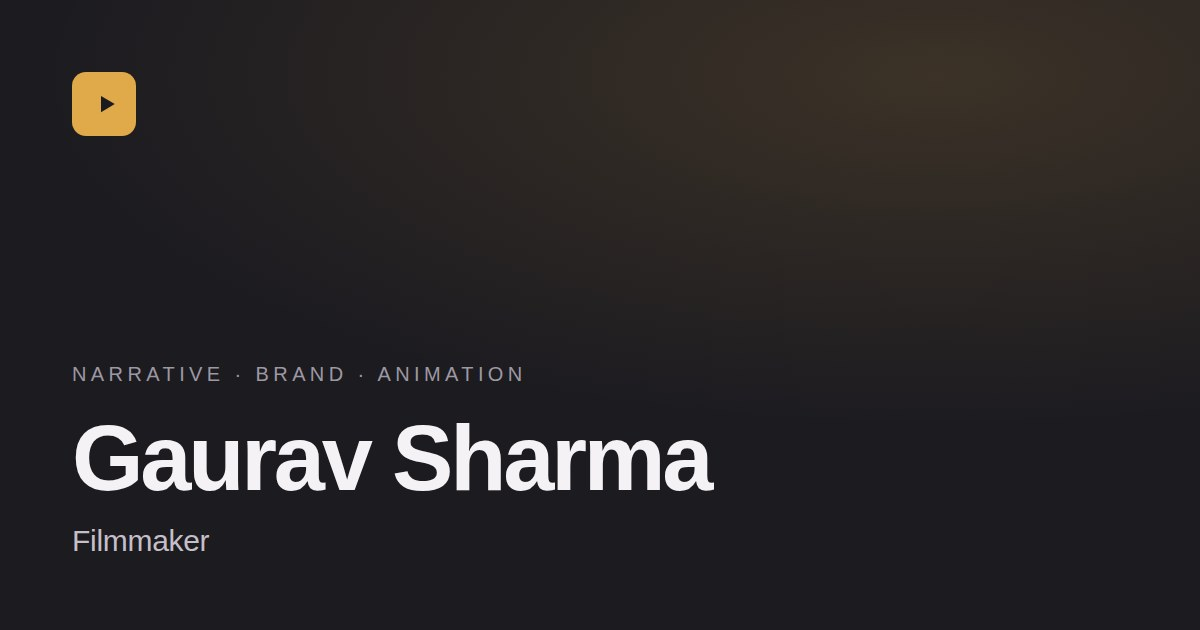
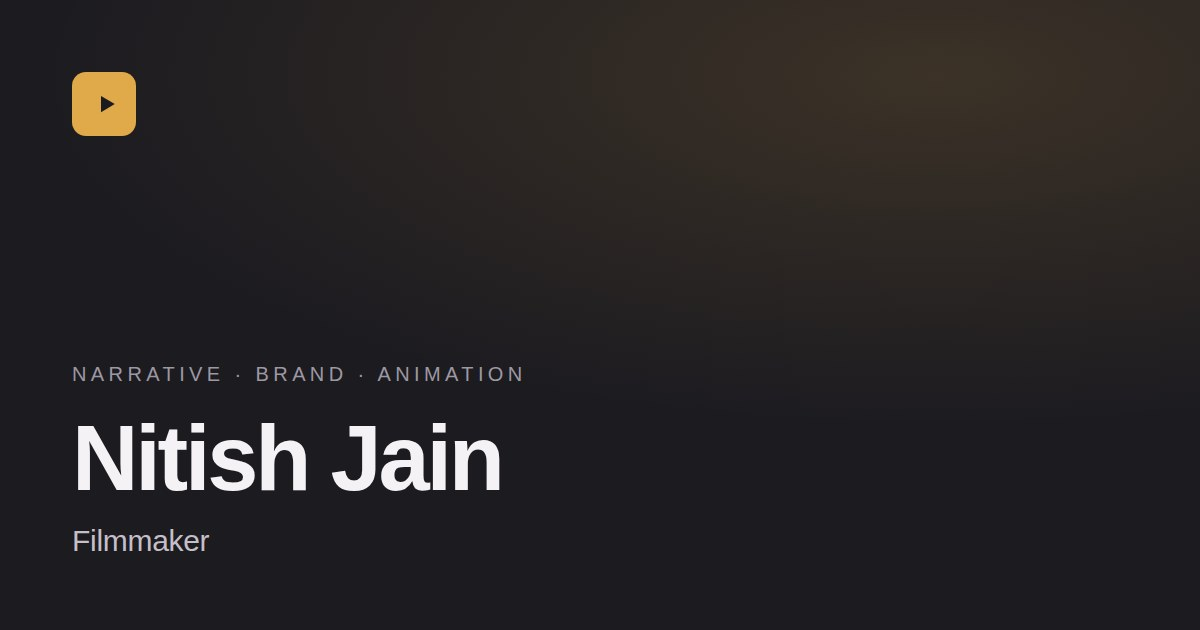
Fix social cards showing the old name and never using a film still
The Vercel card showed "Gaurav Sharma" because assets/og/default.jpg was
rendered before the rename — a baked image, so the find-and-replace across
source files could not reach it. Regenerated with the correct name and read back
to confirm, since the whole bug was an image whose contents nobody checked.

Underneath that sat the real fault: every page was falling back to that card in
the first place. The templates read `poster?.src` for ogImagePath, but films rely
on filename auto-detection, which populated `resolvedPoster` and left `poster`
null — so ogImagePath was always null and resolveOg() fell through on every page.
Only About escaped it, because identity.portrait.src is set explicitly in JSON.

The auto-detected poster is now written back to `f.poster` (and `c.poster`),
which fixes all four ogImagePath sites without touching a template. It has to be
the raw repo-relative path: resolveOg() does its own assetExists() and url(), so
a BASE-prefixed resolvedPoster.src would have failed the existence check and
silently fallen back again.

Sharing any link now shows a real frame:

  index, work, work-documentary  the architect still
  work-animation                 the beaver still
  process, hire                  the fallback card (no clips yet)
  about                          the Times Square portrait

Also clears the last stale name in the repo, a comment header in style.css.

Verified: probe build passes, 13/13 tests, browser pass at 375px and 1440px, and
[…]

Changed region(s): [[0.0617, 0.6635, 0.6167, 0.7841]]

diff --git a/work.html b/work.html
@@ -14,14 +14,14 @@
 <meta property="og:url" content="https://argaurshar.github.io/aifilmmaking-portfolio/work.html">
 <meta property="og:site_name" content="Nitish Jain — Filmmaker">
 <meta property="og:locale" content="en">
-<meta property="og:image" content="https://argaurshar.github.io/aifilmmaking-portfolio/assets/og/default.jpg">
-<meta property="og:image:width" content="1200">
-<meta property="og:image:height" content="630">
-<meta property="og:image:alt" content="Nitish Jain — Filmmaker">
+<meta property="og:image" content="https://argaurshar.github.io/aifilmmaking-portfolio/assets/stills/the-architect-who-built-for-the-soul-1920.jpg">
+<meta property="og:image:width" content="1920">
+<meta property="og:image:height" content="1080">
+<meta property="og:image:alt" content="Work — Nitish Jain">
 
 <meta name="twitter:card" content="summary_large_image">
 <link rel="icon" href="/aifilmmaking-portfolio/assets/favicon.svg" type="image/svg+xml">
-<link rel="stylesheet" href="/aifilmmaking-portfolio/assets/css/style.css?v=21651a3e93">
+<link rel="stylesheet" href="/aifilmmaking-portfolio/assets/css/style.css?v=387d29f725">
 <script type="application/ld+json">{"@context":"https://schema.org","@graph":[{"@type":"Person","@id":"https://argaurshar.github.io/aifilmmaking-portfolio/about.html#person","name":"Nitish Jain","url":"https://argaurshar.github.io/aifilmmaking-portfolio/","jobTitle":"Filmmaker","knowsAbout":["Directing","Editing","Narrative short film","Brand film","Animation"],"description":"I make short films — animation and documentary, most of them one to two minutes, and most of them about India.","image":"https://argaurshar.github.io/aifilmmaking-portfolio/assets/stills/portrait.jpg"},{"@type":"ItemList","itemListElement":[{"@type":"ListItem","position":1,"url":"https://argaurshar.github.io/aifilmmaking-portfolio/work.html#film-the-architect-who-built-for-the-soul"},{"@type":"ListItem","position":2,"url":"https://argaurshar.github.io/aifilmmaking-portfolio/work.html#film-the-beaver-who-had-no-crown"},{"@type":"ListItem","position":3,"url":"https://argaurshar.github.io/aifilmmaking-portfolio/work.html#film-trapped-alone-in-space"},{"@type":"ListItem","position":4,"url":"https://argaurshar.github.io/aifilmmaking-portfolio/work.html#film-a-boy-drew-his-dream-on-a-ball"},{"@type":"ListItem","position":5,"url":"https://argaurshar.github.io/aifilmmaking-portfolio/work.html#film-the-strike"},{"@type":"ListItem","position":6,"url":"https://argaurshar.github.io/aifilmmaking-portfolio/work.html#film-the-rakhi-that-never-breaks"},{"@type":"ListItem","position":7,"url":"https://argaurshar.github.io/aifilmmaking-portfolio/work.html#film-he-tried-to-escape-his-fear"},{"@type":"ListItem","position":8,"url":"https://argaurshar.github.io/aifilmmaking-portfolio/work.html#film-sonam-wangchuk"},{"@type":"ListItem","position":9,"url":"https://argaurshar.github.io/aifilmmaking-portfolio/work.html#film-the-lunchbox-that-kept-coming-back"}]},{"@type":"VideoObject","@id":"https://argaurshar.github.io/aifilmmaking-portfolio/work.html#film-the-architect-who-built-for-the-soul","name":"The Architect Who Built for the Soul","description":"A tribute to a master of humane Indian modernism — the architect who believed a house is not shelter but a precious thing.","embedUrl":"https://www.youtube-nocookie.com/embed/BJRrA7PYngY","url":"https://argaurshar.github.io/aifilmmaking-portfolio/work.html#film-the-architect-who-built-for-the-soul","genre":"Documentary","inLanguage":"en","creator":{"@id":"https://argaurshar.github.io/aifilmmaking-portfolio/about.html#person"},"director":{"@id":"https://argaurshar.github.io/aifilmmaking-portfolio/about.html#person"},"thumbnailUrl":["https://argaurshar.github.io/aifilmmaking-portfolio/assets/stills/the-architect-who-built-for-the-soul-1920.jpg"],"uploadDate":"2026-07-25","duration":"PT1M31S"},{"@type":"VideoObject","@id":"https://argaurshar.github.io/aifilmmaking-portfolio/work.html#film-the-beaver-who-had-no-crown","name":"The Beaver Who Had No Crown","description":"Pip is the only beaver in the colony without a crown, and too afraid to jump off the great dam to earn one.","embedUrl":"https://www.youtube-nocookie.com/embed/XWB5ANfiVwM","url":"https://argaurshar.github.io/aifilmmaking-portfolio/work.html#film-the-beaver-who-had-no-crown","genre":"Animation","inLanguage":"en","creator":{"@id":"https://argaurshar.github.io/aifilmmaking-portfolio/about.html#person"},"director":{"@id":"https://argaurshar.github.io/aifilmmaking-portfolio/about.html#person"},"thumbnailUrl":["https://argaurshar.github.io/aifilmmaking-portfolio/assets/stills/the-beaver-who-had-no-crown-1920.jpg"],"uploadDate":"2026-07-25","duration":"PT1M7S"},{"@type":"VideoObject","@id":"https://argaurshar.github.io/aifilmmaking-portfolio/work.html#film-trapped-alone-in-space","name":"Trapped Alone in Space","description":"A scientist, a dying ship, no way home. When contact with Earth goes silent, he has to decide what is worth surviving for.","embedUrl":"https://www.youtube-nocookie.com/embed/D0uKP6KAnOM","url":"https://argaurshar.github.io/aifilmmaking-portfolio/work.html#film-trapped-alone-in-space","genre":"Trailer","inLanguage":"en","creator":{"@id":"https://argaurshar.github.io/aifilmmaking-portfolio/about.html#person"},"director":{"@id":"https://argaurshar.github.io/aifilmmaking-portfolio/about.html#person"},"thumbnailUrl":["https://argaurshar.github.io/aifilmmaking-portfolio/assets/stills/trapped-alone-in-space-1920.jpg"],"uploadDate":"2026-07-25","duration":"PT11S"},{"@type":"VideoObject","@id":"https://argaurshar.github.io/aifilmmaking-portfolio/work.html#film-a-boy-drew-his-dream-on-a-ball","name":"A Boy Drew His Dream on a Ball","description":"A boy in a small Indian backyard chalks the number 7 onto a rag ball and plays a World Cup final that only exists in his head.","embedUrl":"https://www.youtube-nocookie.com/embed/fVl2v0zZtC8","url":"https://argaurshar.github.io/aifilmmaking-portfolio/work.html#film-a-boy-drew-his-dream-on-a-ball","genre":"Animation","inLanguage":"en","creator":{"@id":"https://argaurshar.github.io/aifilmmaking-portfolio/about.html#person"},"director":{"@id":"https://argaurshar.github.io/aifilmmaking-portfolio/about.html#person"},"thumbnailUrl":["https://argaurshar.github.io/aifilmmaking-portfolio/assets/stills/a-boy-drew-his-dream-on-a-ball-1920.jpg"],"uploadDate":"2026-07-25","duration":"PT1M18S"},{"@type":"VideoObject","@id":"https://argaurshar.github.io/aifilmmaking-portfolio/work.html#film-the-strike","name":"The Strike","description":"Under a full moon, the Nighthawk unit crosses an unnamed frontier for a surgical-strike mission deep in enemy territory.","embedUrl":"https://www.youtube-nocookie.com/embed/PfIIjjRaVS0","url":"https://argaurshar.github.io/aifilmmaking-portfolio/work.html#film-the-strike","genre":"Animation","inLanguage":"en","creator":{"@id":"https://argaurshar.github.io/aifilmmaking-portfolio/about.html#person"},"director":{"@id":"https://argaurshar.github.io/aifilmmaking-portfolio/about.html#person"},"thumbnailUrl":["https://argaurshar.github.io/aifilmmaking-portfolio/assets/stills/the-strike-1920.jpg"],"uploadDate":"2026-07-25","duration":"PT1M47S"},{"@type":"VideoObject","@id":"https://argaurshar.github.io/aifilmmaking-portfolio/work.html#film-the-rakhi-that-never-breaks","name":"The Rakhi That Never Breaks","description":"Every year the thread fades. This Raksha Bandhan, one sister decides to give her brother something that will not.","embedUrl":"https://www.youtube-nocookie.com/embed/PiR-v9rSx60","url":"https://argaurshar.github.io/aifilmmaking-portfolio/work.html#film-the-rakhi-that-never-breaks","genre":"Animation","inLanguage":"en","creator":{"@id":"https://argaurshar.github.io/aifilmmaking-portfolio/about.html#person"},"director":{"@id":"https://argaurshar.github.io/aifilmmaking-portfolio/about.html#person"},"thumbnailUrl":["https://argaurshar.github.io/aifilmmaking-portfolio/assets/stills/the-rakhi-that-never-breaks-1920.jpg"],"uploadDate":"2026-07-25","duration":"PT1M19S"},{"@type":"VideoObject","@id":"https://argaurshar.github.io/aifilmmaking-portfolio/work.html#film-he-tried-to-escape-his-fear","name":"He Tried to Escape His Fear","description":"One man tries to outrun the thing he has been avoiding his whole life, and finds out what happens when hiding stops working.","embedUrl":"https://www.youtube-nocookie.com/embed/apCOQYEtCw0","url":"https://argaurshar.github.io/aifilmmaking-portfolio/work.html#film-he-tried-to-escape-his-fear","genre":"Animation","inLanguage":"en","creator":{"@id":"https://argaurshar.github.io/aifilmmaking-portfolio/about.html#person"},"director":{"@id":"https://argaurshar.github.io/aifilmmaking-portfolio/about.html#person"},"thumbnailUrl":["https://argaurshar.github.io/aifilmmaking-portfolio/assets/stills/he-tried-to-escape-his-fear-1920.jpg"],"uploadDate":"2026-07-25","duration":"PT1M1S"},{"@type":"VideoObject","@id":"https://argaurshar.github.io/aifilmmaking-portfolio/work.html#film-sonam-wangchuk","name":"Sonam Wangchuk: The Boy the System Failed","description":"He could not understand the language at school. His teachers called him slow. They were wrong.","embedUrl":"https://www.youtube-nocookie.com/embed/tRPycHnRt9k","url":"https://argaurshar.github.io/aifilmmaking-portfolio/work.html#film-sonam-wangchuk","genre":"Documentary","inLanguage":"en","creator":{"@id":"https://argaurshar.github.io/aifilmmaking-portfolio/about.html#person"},"director":{"@id":"https://argaurshar.github.io/aifilmmaking-portfolio/about.html#person"},"thumbnailUrl":["https://argaurshar.github.io/aifilmmaking-portfolio/assets/stills/sonam-wangchuk-1920.jpg"],"uploadDate":"2026-07-25","duration":"PT1M5S"},{"@type":"VideoObject","@id":"https://argaurshar.github.io/aifilmmaking-portfolio/work.html#film-the-lunchbox-that-kept-coming-back","name":"The Lunchbox That Kept Coming Back","description":"Ramesh has delivered the same red tiffin to the same desk every day for years. Then one day it comes back untouched.","embedUrl":"https://www.youtube-nocookie.com/embed/b2TWgdEnqtY","url":"https://argaurshar.github.io/aifilmmaking-portfolio/work.html#film-the-lunchbox-that-kept-coming-back","genre":"Animation","inLanguage":"en","creator":{"@id":"https://argaurshar.github.io/aifilmmaking-portfolio/about.html#person"},"director":{"@id":"https://argaurshar.github.io/aifilmmaking-portfolio/about.html#person"},"thumbnailUrl":["https://argaurshar.github.io/aifilmmaking-portfolio/assets/stills/the-lunchbox-that-kept-coming-back-1920.jpg"],"uploadDate":"2026-07-25","duration":"PT1M52S"},{"@type":"BreadcrumbList","itemListElement":[{"@type":"ListItem","position":1,"name":"Home","item":"https://argaurshar.github.io/aifilmmaking-portfolio/"},{"@type":"ListItem","position":2,"name":"Work","item":"https://argaurshar.github.io/aifilmmaking-portfolio/work.html"}]}]}</script>
 <script>document.documentElement.classList.replace('no-js','js')</script>
 </head>

diff --git a/work-animation.html b/work-animation.html
@@ -14,14 +14,14 @@
 <meta property="og:url" content="https://argaurshar.github.io/aifilmmaking-portfolio/work-animation.html">
 <meta property="og:site_name" content="Nitish Jain — Filmmaker">
 <meta property="og:locale" content="en">
-<meta property="og:image" content="https://argaurshar.github.io/aifilmmaking-portfolio/assets/og/default.jpg">
-<meta property="og:image:width" content="1200">
-<meta property="og:image:height" content="630">
-<meta property="og:image:alt" content="Nitish Jain — Filmmaker">
+<meta property="og:image" content="https://argaurshar.github.io/aifilmmaking-portfolio/assets/stills/the-beaver-who-had-no-crown-1920.jpg">
+<meta property="og:image:width" content="1920">
+<meta property="og:image:height" content="1080">
+<meta property="og:image:alt" content="Animation — Nitish Jain">
 
 <meta name="twitter:card" content="summary_large_image">
 <link rel="icon" href="/aifilmmaking-portfolio/assets/favicon.svg" type="image/svg+xml">
-<link rel="stylesheet" href="/aifilmmaking-portfolio/assets/css/style.css?v=21651a3e93">
+<link rel="stylesheet" href="/aifilmmaking-portfolio/assets/css/style.css?v=387d29f725">
 <script type="application/ld+json">{"@context":"https://schema.org","@graph":[{"@type":"Person","@id":"https://argaurshar.github.io/aifilmmaking-portfolio/about.html#person","name":"Nitish Jain","url":"https://argaurshar.github.io/aifilmmaking-portfolio/","jobTitle":"Filmmaker","knowsAbout":["Directing","Editing","Narrative short film","Brand film","Animation"],"description":"I make short films — animation and documentary, most of them one to two minutes, and most of them about India.","image":"https://argaurshar.github.io/aifilmmaking-portfolio/assets/stills/portrait.jpg"},{"@type":"VideoObject","@id":"https://argaurshar.github.io/aifilmmaking-portfolio/work.html#film-the-beaver-who-had-no-crown","name":"The Beaver Who Had No Crown","description":"Pip is the only beaver in the colony without a crown, and too afraid to jump off the great dam to earn one.","embedUrl":"https://www.youtube-nocookie.com/embed/XWB5ANfiVwM","url":"https://argaurshar.github.io/aifilmmaking-portfolio/work.html#film-the-beaver-who-had-no-crown","genre":"Animation","inLanguage":"en","creator":{"@id":"https://argaurshar.github.io/aifilmmaking-portfolio/about.html#person"},"director":{"@id":"https://argaurshar.github.io/aifilmmaking-portfolio/about.html#person"},"thumbnailUrl":["https://argaurshar.github.io/aifilmmaking-portfolio/assets/stills/the-beaver-who-had-no-crown-1920.jpg"],"uploadDate":"2026-07-25","duration":"PT1M7S"},{"@type":"VideoObject","@id":"https://argaurshar.github.io/aifilmmaking-portfolio/work.html#film-a-boy-drew-his-dream-on-a-ball","name":"A Boy Drew His Dream on a Ball","description":"A boy in a small Indian backyard chalks the number 7 onto a rag ball and plays a World Cup final that only exists in his head.","embedUrl":"https://www.youtube-nocookie.com/embed/fVl2v0zZtC8","url":"https://argaurshar.github.io/aifilmmaking-portfolio/work.html#film-a-boy-drew-his-dream-on-a-ball","genre":"Animation","inLanguage":"en","creator":{"@id":"https://argaurshar.github.io/aifilmmaking-portfolio/about.html#person"},"director":{"@id":"https://argaurshar.github.io/aifilmmaking-portfolio/about.html#person"},"thumbnailUrl":["https://argaurshar.github.io/aifilmmaking-portfolio/assets/stills/a-boy-drew-his-dream-on-a-ball-1920.jpg"],"uploadDate":"2026-07-25","duration":"PT1M18S"},{"@type":"VideoObject","@id":"https://argaurshar.github.io/aifilmmaking-portfolio/work.html#film-the-strike","name":"The Strike","description":"Under a full moon, the Nighthawk unit crosses an unnamed frontier for a surgical-strike mission deep in enemy territory.","embedUrl":"https://www.youtube-nocookie.com/embed/PfIIjjRaVS0","url":"https://argaurshar.github.io/aifilmmaking-portfolio/work.html#film-the-strike","genre":"Animation","inLanguage":"en","creator":{"@id":"https://argaurshar.github.io/aifilmmaking-portfolio/about.html#person"},"director":{"@id":"https://argaurshar.github.io/aifilmmaking-portfolio/about.html#person"},"thumbnailUrl":["https://argaurshar.github.io/aifilmmaking-portfolio/assets/stills/the-strike-1920.jpg"],"uploadDate":"2026-07-25","duration":"PT1M47S"},{"@type":"VideoObject","@id":"https://argaurshar.github.io/aifilmmaking-portfolio/work.html#film-the-rakhi-that-never-breaks","name":"The Rakhi That Never Breaks","description":"Every year the thread fades. This Raksha Bandhan, one sister decides to give her brother something that will not.","embedUrl":"https://www.youtube-nocookie.com/embed/PiR-v9rSx60","url":"https://argaurshar.github.io/aifilmmaking-portfolio/work.html#film-the-rakhi-that-never-breaks","genre":"Animation","inLanguage":"en","creator":{"@id":"https://argaurshar.github.io/aifilmmaking-portfolio/about.html#person"},"director":{"@id":"https://argaurshar.github.io/aifilmmaking-portfolio/about.html#person"},"thumbnailUrl":["https://argaurshar.github.io/aifilmmaking-portfolio/assets/stills/the-rakhi-that-never-breaks-1920.jpg"],"uploadDate":"2026-07-25","duration":"PT1M19S"},{"@type":"VideoObject","@id":"https://argaurshar.github.io/aifilmmaking-portfolio/work.html#film-he-tried-to-escape-his-fear","name":"He Tried to Escape His Fear","description":"One man tries to outrun the thing he has been avoiding his whole life, and finds out what happens when hiding stops working.","embedUrl":"https://www.youtube-nocookie.com/embed/apCOQYEtCw0","url":"https://argaurshar.github.io/aifilmmaking-portfolio/work.html#film-he-tried-to-escape-his-fear","genre":"Animation","inLanguage":"en","creator":{"@id":"https://argaurshar.github.io/aifilmmaking-portfolio/about.html#person"},"director":{"@id":"https://argaurshar.github.io/aifilmmaking-portfolio/about.html#person"},"thumbnailUrl":["https://argaurshar.github.io/aifilmmaking-portfolio/assets/stills/he-tried-to-escape-his-fear-1920.jpg"],"uploadDate":"2026-07-25","duration":"PT1M1S"},{"@type":"VideoObject","@id":"https://argaurshar.github.io/aifilmmaking-portfolio/work.html#film-the-lunchbox-that-kept-coming-back","name":"The Lunchbox That Kept Coming Back","description":"Ramesh has delivered the same red tiffin to the same desk every day for years. Then one day it comes back untouched.","embedUrl":"https://www.youtube-nocookie.com/embed/b2TWgdEnqtY","url":"https://argaurshar.github.io/aifilmmaking-portfolio/work.html#film-the-lunchbox-that-kept-coming-back","genre":"Animation","inLanguage":"en","creator":{"@id":"https://argaurshar.github.io/aifilmmaking-portfolio/about.html#person"},"director":{"@id":"https://argaurshar.github.io/aifilmmaking-portfolio/about.html#person"},"thumbnailUrl":["https://argaurshar.github.io/aifilmmaking-portfolio/assets/stills/the-lunchbox-that-kept-coming-back-1920.jpg"],"uploadDate":"2026-07-25","duration":"PT1M52S"}]}</script>
 <script>document.documentElement.classList.replace('no-js','js')</script>
 </head>

diff --git a/work-documentary.html b/work-documentary.html
@@ -14,14 +14,14 @@
 <meta property="og:url" content="https://argaurshar.github.io/aifilmmaking-portfolio/work-documentary.html">
 <meta property="og:site_name" content="Nitish Jain — Filmmaker">
 <meta property="og:locale" content="en">
-<meta property="og:image" content="https://argaurshar.github.io/aifilmmaking-portfolio/assets/og/default.jpg">
-<meta property="og:image:width" content="1200">
-<meta property="og:image:height" content="630">
-<meta property="og:image:alt" content="Nitish Jain — Filmmaker">
+<meta property="og:image" content="https://argaurshar.github.io/aifilmmaking-portfolio/assets/stills/the-architect-who-built-for-the-soul-1920.jpg">
+<meta property="og:image:width" content="1920">
+<meta property="og:image:height" content="1080">
+<meta property="og:image:alt" content="Documentary — Nitish Jain">
 
 <meta name="twitter:card" content="summary_large_image">
 <link rel="icon" href="/aifilmmaking-portfolio/assets/favicon.svg" type="image/svg+xml">
-<link rel="stylesheet" href="/aifilmmaking-portfolio/assets/css/style.css?v=21651a3e93">
+<link rel="stylesheet" href="/aifilmmaking-portfolio/assets/css/style.css?v=387d29f725">
 <script type="application/ld+json">{"@context":"https://schema.org","@graph":[{"@type":"Person","@id":"https://argaurshar.github.io/aifilmmaking-portfolio/about.html#person","name":"Nitish Jain","url":"https://argaurshar.github.io/aifilmmaking-portfolio/","jobTitle":"Filmmaker","knowsAbout":["Directing","Editing","Narrative short film","Brand film","Animation"],"description":"I make short films — animation and documentary, most of them one to two minutes, and most of them about India.","image":"https://argaurshar.github.io/aifilmmaking-portfolio/assets/stills/portrait.jpg"},{"@type":"VideoObject","@id":"https://argaurshar.github.io/aifilmmaking-portfolio/work.html#film-the-architect-who-built-for-the-soul","name":"The Architect Who Built for the Soul","description":"A tribute to a master of humane Indian modernism — the architect who believed a house is not shelter but a precious thing.","embedUrl":"https://www.youtube-nocookie.com/embed/BJRrA7PYngY","url":"https://argaurshar.github.io/aifilmmaking-portfolio/work.html#film-the-architect-who-built-for-the-soul","genre":"Documentary","inLanguage":"en","creator":{"@id":"https://argaurshar.github.io/aifilmmaking-portfolio/about.html#person"},"director":{"@id":"https://argaurshar.github.io/aifilmmaking-portfolio/about.html#person"},"thumbnailUrl":["https://argaurshar.github.io/aifilmmaking-portfolio/assets/stills/the-architect-who-built-for-the-soul-1920.jpg"],"uploadDate":"2026-07-25","duration":"PT1M31S"},{"@type":"VideoObject","@id":"https://argaurshar.github.io/aifilmmaking-portfolio/work.html#film-sonam-wangchuk","name":"Sonam Wangchuk: The Boy the System Failed","description":"He could not understand the language at school. His teachers called him slow. They were wrong.","embedUrl":"https://www.youtube-nocookie.com/embed/tRPycHnRt9k","url":"https://argaurshar.github.io/aifilmmaking-portfolio/work.html#film-sonam-wangchuk","genre":"Documentary","inLanguage":"en","creator":{"@id":"https://argaurshar.github.io/aifilmmaking-portfolio/about.html#person"},"director":{"@id":"https://argaurshar.github.io/aifilmmaking-portfolio/about.html#person"},"thumbnailUrl":["https://argaurshar.github.io/aifilmmaking-portfolio/assets/stills/sonam-wangchuk-1920.jpg"],"uploadDate":"2026-07-25","duration":"PT1M5S"}]}</script>
 <script>document.documentElement.classList.replace('no-js','js')</script>
 </head>

diff --git a/index.html b/index.html
@@ -14,9 +14,9 @@
 <meta property="og:url" content="https://argaurshar.github.io/aifilmmaking-portfolio/">
 <meta property="og:site_name" content="Nitish Jain — Filmmaker">
 <meta property="og:locale" content="en">
-<meta property="og:image" content="https://argaurshar.github.io/aifilmmaking-portfolio/assets/og/default.jpg">
-<meta property="og:image:width" content="1200">
-<meta property="og:image:height" content="630">
+<meta property="og:image" content="https://argaurshar.github.io/aifilmmaking-portfolio/assets/stills/the-architect-who-built-for-the-soul-1920.jpg">
+<meta property="og:image:width" content="1920">
+<meta property="og:image:height" content="1080">
 <meta property="og:image:alt" content="Nitish Jain — Filmmaker">
 <meta property="og:video:url" content="https://www.youtube-nocookie.com/embed/BJRrA7PYngY?autoplay=1&amp;rel=0&amp;playsinline=1&amp;color=white">
 <meta property="og:video:secure_url" content="https://www.youtube-nocookie.com/embed/BJRrA7PYngY?autoplay=1&amp;rel=0&amp;playsinline=1&amp;color=white">
@@ -25,7 +25,7 @@
 <meta property="og:video:height" content="720">
 <meta name="twitter:card" content="summary_large_image">
 <link rel="icon" href="/aifilmmaking-portfolio/assets/favicon.svg" type="image/svg+xml">
-<link rel="stylesheet" href="/aifilmmaking-portfolio/assets/css/style.css?v=21651a3e93">
+<link rel="stylesheet" href="/aifilmmaking-portfolio/assets/css/style.css?v=387d29f725">
 <script type="application/ld+json">{"@context":"https://schema.org","@graph":[{"@type":"WebSite","@id":"https://argaurshar.github.io/aifilmmaking-portfolio/#website","url":"https://argaurshar.github.io/aifilmmaking-portfolio/","name":"Nitish Jain — Filmmaker","publisher":{"@id":"https://argaurshar.github.io/aifilmmaking-portfolio/about.html#person"}},{"@type":"Person","@id":"https://argaurshar.github.io/aifilmmaking-portfolio/about.html#person","name":"Nitish Jain","url":"https://argaurshar.github.io/aifilmmaking-portfolio/","jobTitle":"Filmmaker","knowsAbout":["Directing","Editing","Narrative short film","Brand film","Animation"],"description":"I make short films — animation and documentary, most of them one to two minutes, and most of them about India.","image":"https://argaurshar.github.io/aifilmmaking-portfolio/assets/stills/portrait.jpg"},{"@type":"VideoObject","@id":"https://argaurshar.github.io/aifilmmaking-portfolio/work.html#film-the-architect-who-built-for-the-soul","name":"The Architect Who Built for the Soul","description":"A tribute to a master of humane Indian modernism — the architect who believed a house is not shelter but a precious thing.","embedUrl":"https://www.youtube-nocookie.com/embed/BJRrA7PYngY","url":"https://argaurshar.github.io/aifilmmaking-portfolio/work.html#film-the-architect-who-built-for-the-soul","genre":"Documentary","inLanguage":"en","creator":{"@id":"https://argaurshar.github.io/aifilmmaking-portfolio/about.html#person"},"director":{"@id":"https://argaurshar.github.io/aifilmmaking-portfolio/about.html#person"},"thumbnailUrl":["https://argaurshar.github.io/aifilmmaking-portfolio/assets/stills/the-architect-who-built-for-the-soul-1920.jpg"],"uploadDate":"2026-07-25","duration":"PT1M31S"}]}</script>
 <script>document.documentElement.classList.replace('no-js','js')</script>
 </head>

diff --git a/hire.html b/hire.html
@@ -21,7 +21,7 @@
 
 <meta name="twitter:card" content="summary_large_image">
 <link rel="icon" href="/aifilmmaking-portfolio/assets/favicon.svg" type="image/svg+xml">
-<link rel="stylesheet" href="/aifilmmaking-portfolio/assets/css/style.css?v=21651a3e93">
+<link rel="stylesheet" href="/aifilmmaking-portfolio/assets/css/style.css?v=387d29f725">
 <script type="application/ld+json">{"@context":"https://schema.org","@graph":[{"@type":"Person","@id":"https://argaurshar.github.io/aifilmmaking-portfolio/about.html#person","name":"Nitish Jain","url":"https://argaurshar.github.io/aifilmmaking-portfolio/","jobTitle":"Filmmaker","knowsAbout":["Directing","Editing","Narrative short film","Brand film","Animation"],"description":"I make short films — animation and documentary, most of them one to two minutes, and most of them about India.","image":"https://argaurshar.github.io/aifilmmaking-portfolio/assets/stills/portrait.jpg","makesOffer":[{"@type":"Offer","itemOffered":{"@type":"Service","name":"Narrative short","description":"A story with a beginning and an end, usually one to five minutes."}},{"@type":"Offer","itemOffered":{"@type":"Service","name":"Brand film","description":"A film for a product or a company that is watchable on its own."}},{"@type":"Offer","itemOffered":{"@type":"Service","name":"Animation","description":"Moving image work that is not shot — sequences, titles, transitions, whole pieces."}}]},{"@type":"BreadcrumbList","itemListElement":[{"@type":"ListItem","position":1,"name":"Home","item":"https://argaurshar.github.io/aifilmmaking-portfolio/"},{"@type":"ListItem","position":2,"name":"Hire","item":"https://argaurshar.github.io/aifilmmaking-portfolio/hire.html"}]}]}</script>
 <script>document.documentElement.classList.replace('no-js','js')</script>
 </head>

diff --git a/process.html b/process.html
@@ -21,7 +21,7 @@
 
 <meta name="twitter:card" content="summary_large_image">
 <link rel="icon" href="/aifilmmaking-portfolio/assets/favicon.svg" type="image/svg+xml">
-<link rel="stylesheet" href="/aifilmmaking-portfolio/assets/css/style.css?v=21651a3e93">
+<link rel="stylesheet" href="/aifilmmaking-portfolio/assets/css/style.css?v=387d29f725">
 <script type="application/ld+json">{"@context":"https://schema.org","@graph":[{"@type":"Person","@id":"https://argaurshar.github.io/aifilmmaking-portfolio/about.html#person","name":"Nitish Jain","url":"https://argaurshar.github.io/aifilmmaking-portfolio/","jobTitle":"Filmmaker","knowsAbout":["Directing","Editing","Narrative short film","Brand film","Animation"],"description":"I make short films — animation and documentary, most of them one to two minutes, and most of them about India.","image":"https://argaurshar.github.io/aifilmmaking-portfolio/assets/stills/portrait.jpg"},{"@type":"BreadcrumbList","itemListElement":[{"@type":"ListItem","position":1,"name":"Home","item":"https://argaurshar.github.io/aifilmmaking-portfolio/"},{"@type":"ListItem","position":2,"name":"Process","item":"https://argaurshar.github.io/aifilmmaking-portfolio/process.html"}]}]}</script>
 <script>document.documentElement.classList.replace('no-js','js')</script>
 </head>

diff --git a/about.html b/about.html
@@ -21,7 +21,7 @@
 
 <meta name="twitter:card" content="summary_large_image">
 <link rel="icon" href="/aifilmmaking-portfolio/assets/favicon.svg" type="image/svg+xml">
-<link rel="stylesheet" href="/aifilmmaking-portfolio/assets/css/style.css?v=21651a3e93">
+<link rel="stylesheet" href="/aifilmmaking-portfolio/assets/css/style.css?v=387d29f725">
 <script type="application/ld+json">{"@context":"https://schema.org","@graph":[{"@type":"Person","@id":"https://argaurshar.github.io/aifilmmaking-portfolio/about.html#person","name":"Nitish Jain","url":"https://argaurshar.github.io/aifilmmaking-portfolio/","jobTitle":"Filmmaker","knowsAbout":["Directing","Editing","Narrative short film","Brand film","Animation"],"description":"I make short films — animation and documentary, most of them one to two minutes, and most of them about India.","image":"https://argaurshar.github.io/aifilmmaking-portfolio/assets/stills/portrait.jpg"},{"@type":"BreadcrumbList","itemListElement":[{"@type":"ListItem","position":1,"name":"Home","item":"https://argaurshar.github.io/aifilmmaking-portfolio/"},{"@type":"ListItem","position":2,"name":"About","item":"https://argaurshar.github.io/aifilmmaking-portfolio/about.html"}]}]}</script>
 <script>document.documentElement.classList.replace('no-js','js')</script>
 </head>

diff --git a/404.html b/404.html
@@ -21,7 +21,7 @@
 
 <meta name="twitter:card" content="summary_large_image">
 <link rel="icon" href="/aifilmmaking-portfolio/assets/favicon.svg" type="image/svg+xml">
-<link rel="stylesheet" href="/aifilmmaking-portfolio/assets/css/style.css?v=21651a3e93">
+<link rel="stylesheet" href="/aifilmmaking-portfolio/assets/css/style.css?v=387d29f725">
 <script type="application/ld+json">{"@context":"https://schema.org","@graph":[]}</script>
 <script>document.documentElement.classList.replace('no-js','js')</script>
 </head>

diff --git a/assets/css/style.css b/assets/css/style.css
@@ -1,5 +1,5 @@
 /* ═══════════════════════════════════════════════════════════════════════════
-   Gaurav Sharma — Filmmaker
+   Nitish Jain — Filmmaker
    Cinema black. See docs/02-DESIGN-SYSTEM.md.
 
    Order matters: tokens → reset → base → layout → components → utilities → media.
